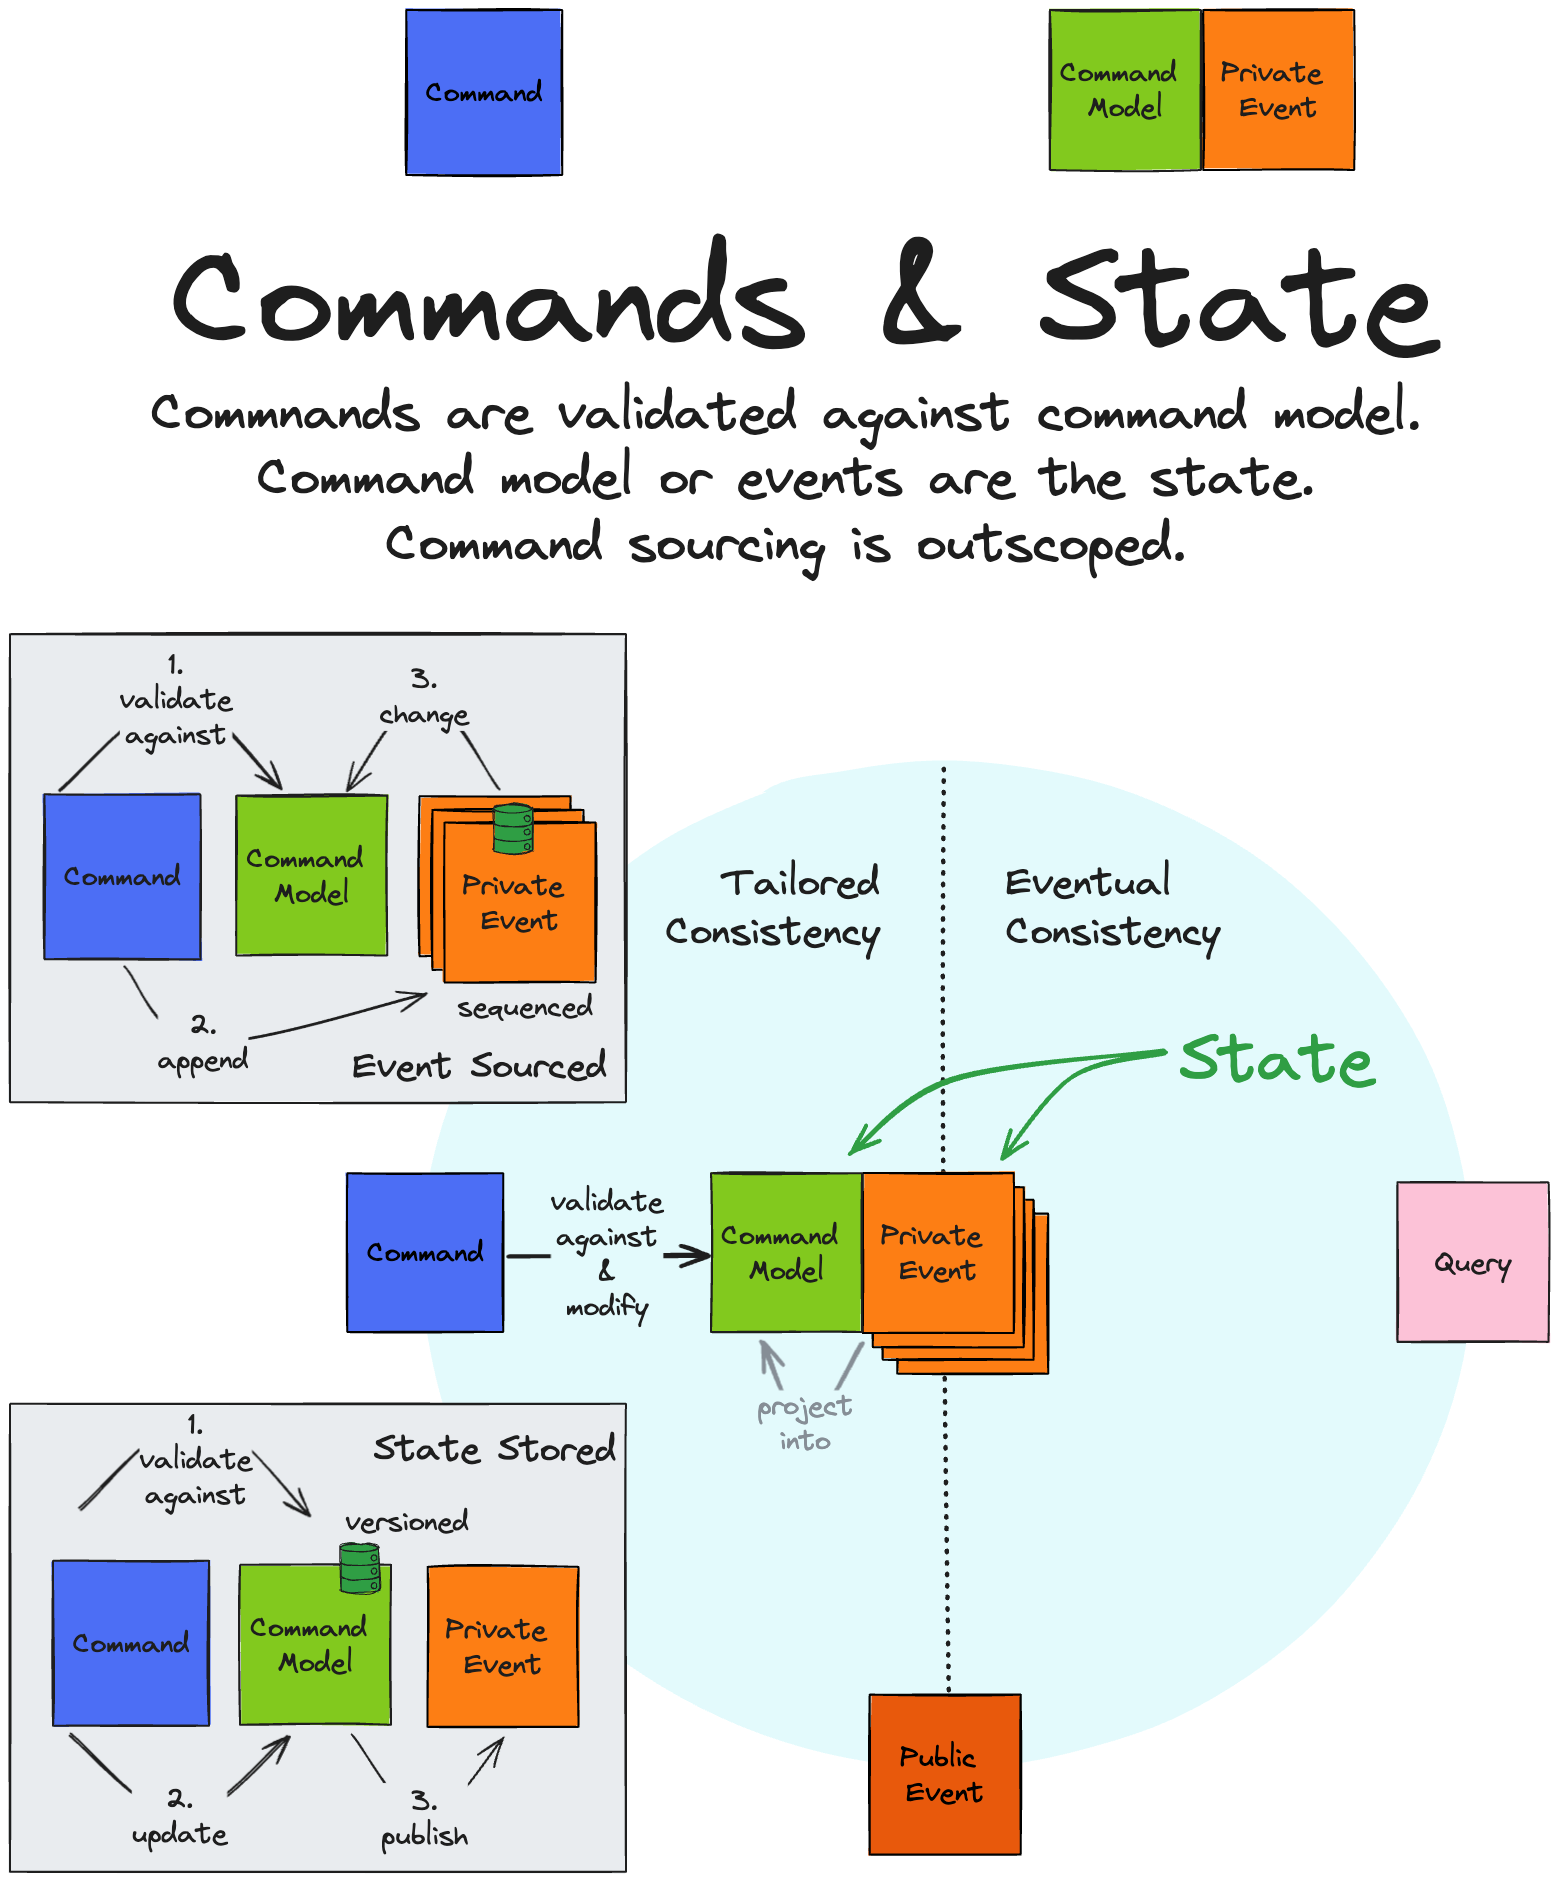
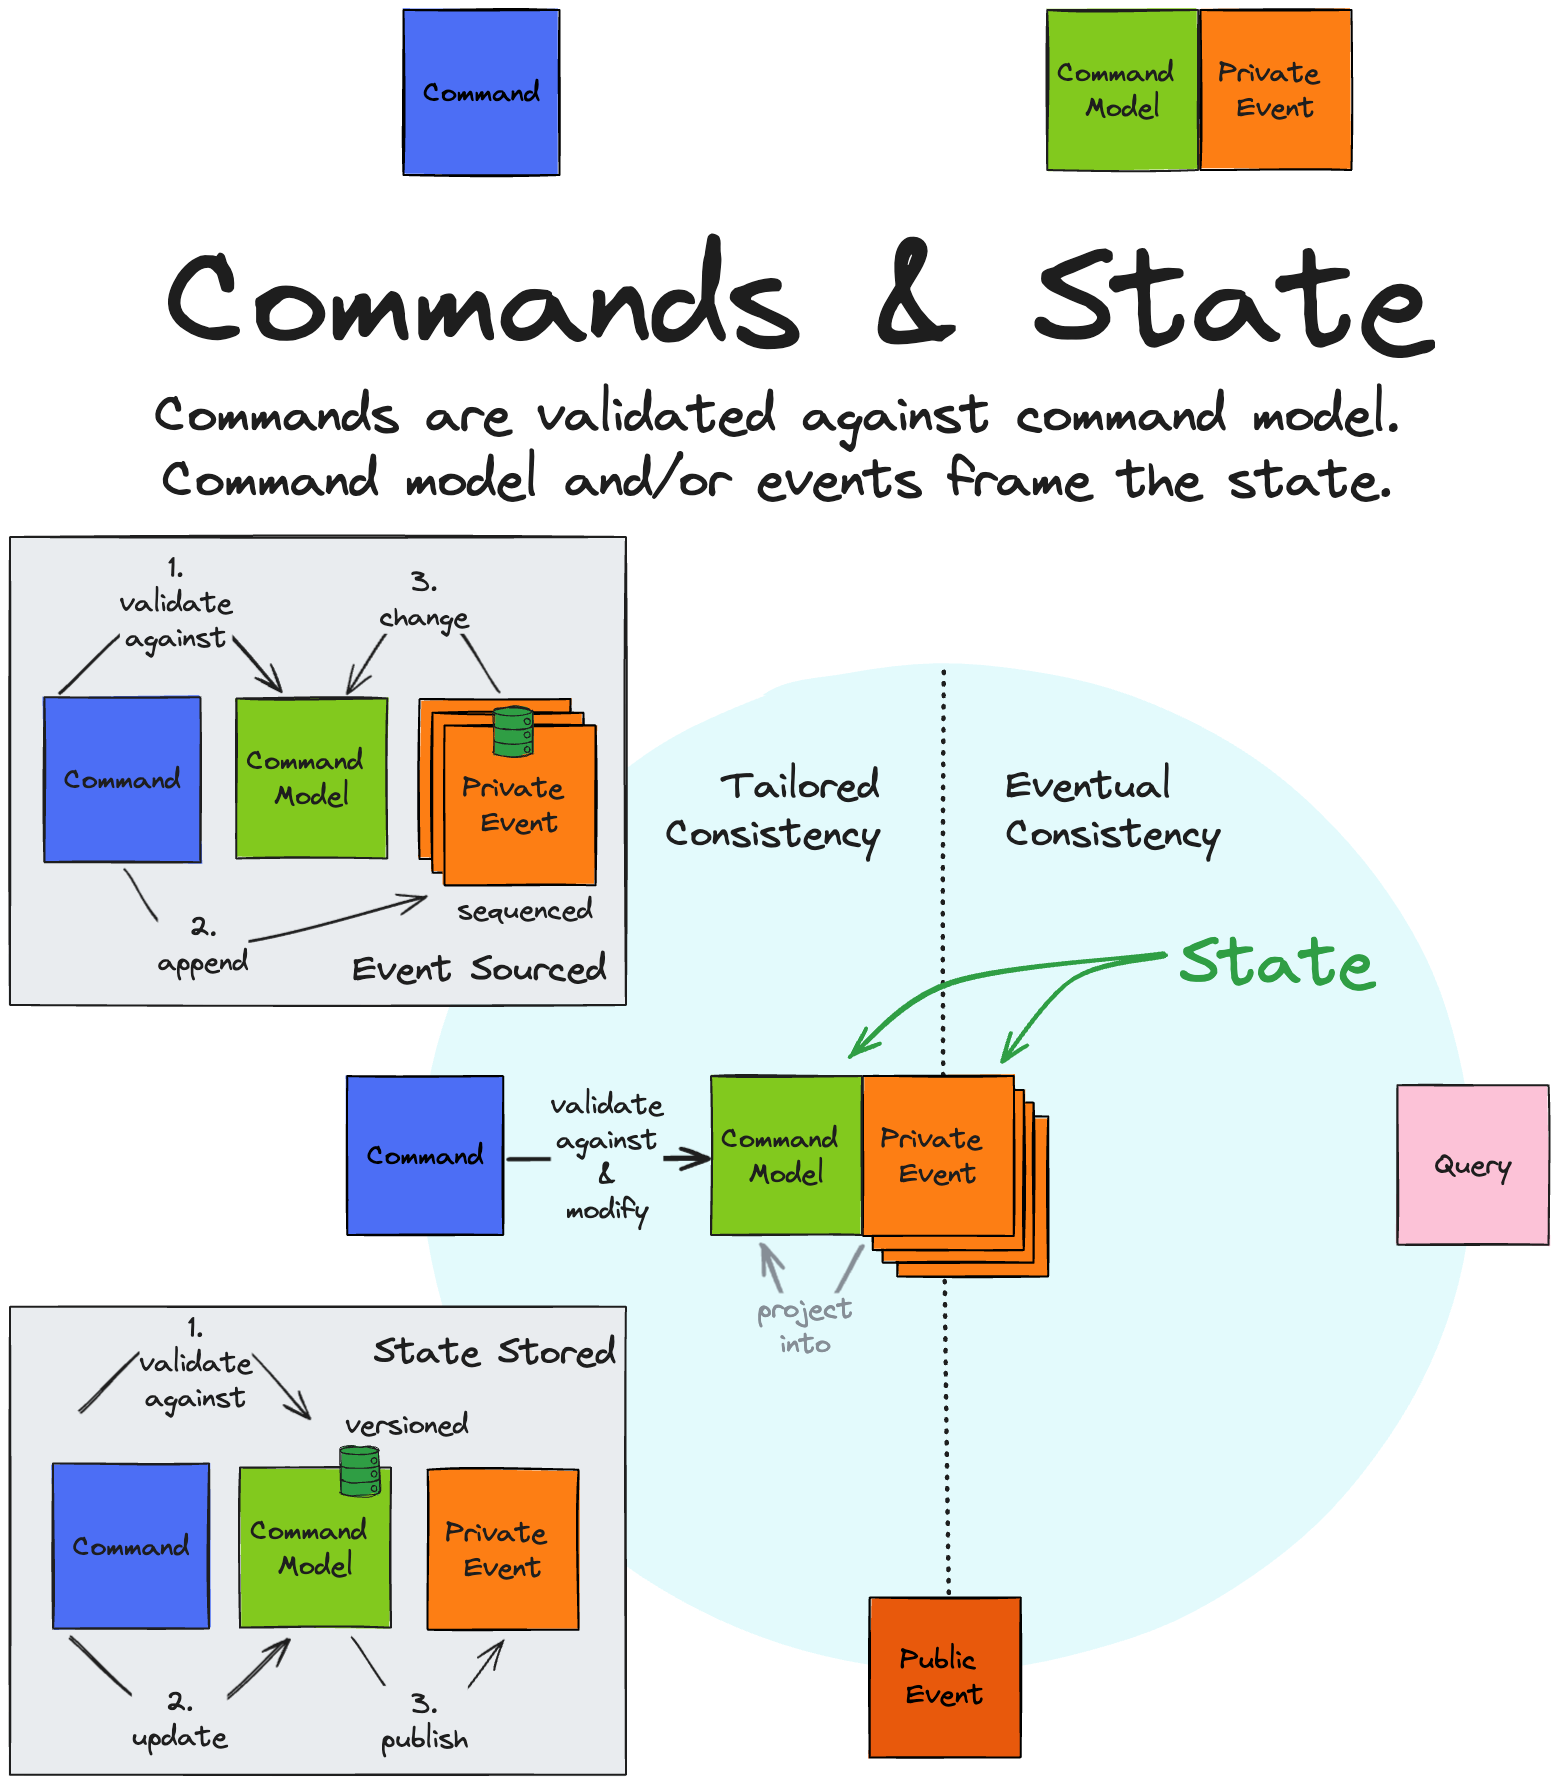
General improvements

diff --git a/README.md b/README.md
@@ -378,6 +378,10 @@ system's design remains consistent with the business goals and domain requiremen
 
 ![](pictures/6_3_commands.png)
 
+Commands are validated against a model that frames the state.
+The model defines the logic, rules and structure of the state, which is persisted through events or direct updates.
+Commands modify the state by adhering to the rules defined by the model, ensuring business invariants are maintained.
+
 ### Queries
 
 ![](pictures/6_4_queries_1.png)
@@ -506,7 +510,7 @@ visualization.
 **Command Handler**
 
 This is the core of the system where the "magic" happens. Commands are validated and applied against the model, causing 
-the model to evolve. The evolution happens either directly (by applying the command) or indirectly (via events).
+the state to evolve. The evolution happens either directly (by applying the command) or indirectly (via events).
 
 $$
 f(\text{Command}, \text{State}) \to \text{Effect}
